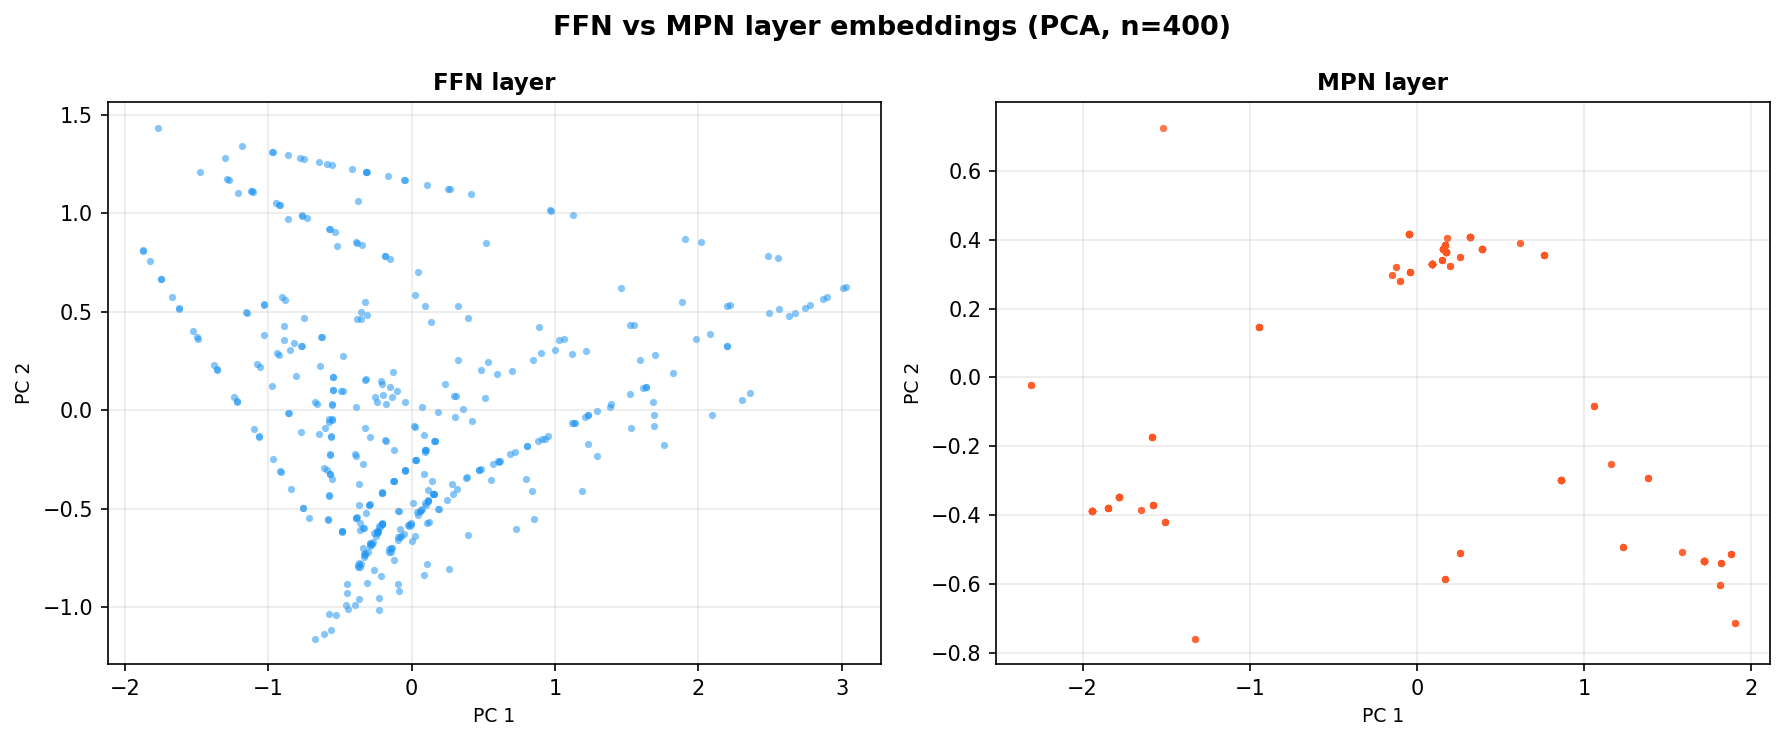
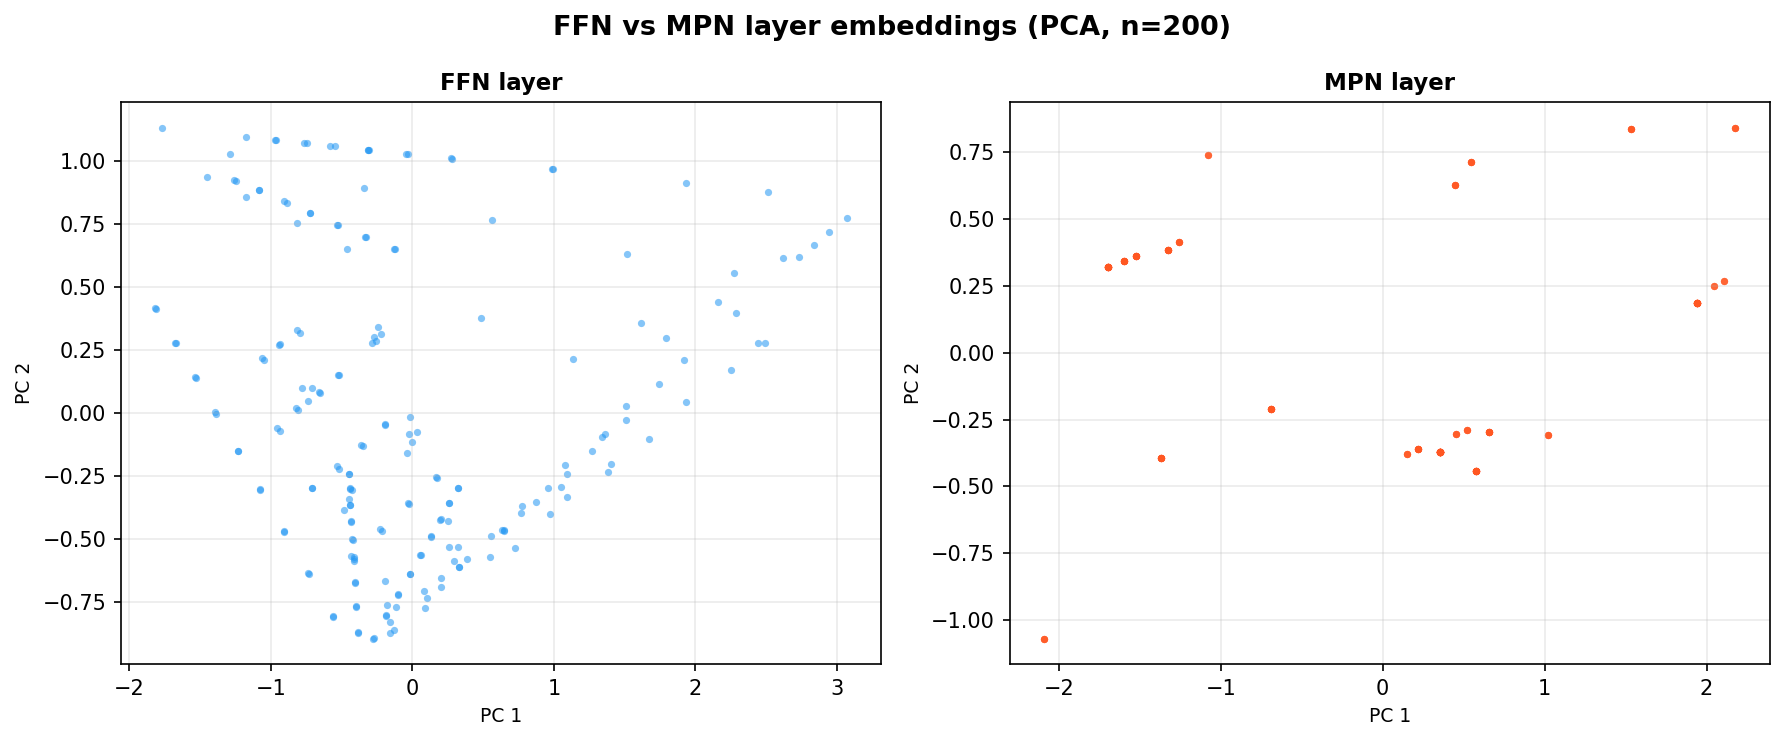
fixed anomaly detector issue

diff --git a/core/evolution/mixture_evolution.py b/core/evolution/mixture_evolution.py
@@ -139,17 +139,18 @@ class MixtureAwareMolecularEvolution(MolecularEvolution):
         print(f"✓ Base fuel: {len(self.base_smiles)} components")
     
     def _load_ad_checker(self):
-        """NEW: Load the trained One-Class SVM."""
+        """Load the trained One-Class SVM."""
+        ad_path = Path(__file__).resolve().parent.parent.parent / "models" / "mixture" / "mixture_ad_svm.pkl"
         try:
-            with open('models/mixture/mixture_ad_svm.pkl', 'rb') as f:
+            with open(ad_path, 'rb') as f:
                 ad_data = pickle.load(f)
                 self.svm = ad_data['svm']
                 self.scaler = ad_data['scaler']
-            
+
             print("✓ AD checker loaded")
-        
+
         except FileNotFoundError:
-            print("⚠ models/mixture/mixture_ad_svm.pkl not found - disabling AD filtering")
+            print(f"⚠ AD checker not found at {ad_path} - disabling AD filtering")
             self.use_ad_filtering = False
     
     def _extract_mixture_embedding(self, additive_smiles: str) -> np.ndarray:
@@ -341,47 +342,48 @@ class MixtureAwareMolecularEvolution(MolecularEvolution):
                 'total': 0,
                 'cn_none': 0,
                 'ysi_none': 0,
-                'tanimoto_fail': 0,
-                'cn_uncertainty_fail': 0,
-                'ysi_uncertainty_fail': 0,
-                'property_fail': 0,
                 'ad_filtered': 0,
-                'passed': 0
+                'passed': 0,
             }
 
         mc = self.config.mixture_config
-        
+
         filter_stats = {
             'total': len(smiles_list),
             'cn_none': 0,
             'ysi_none': 0,
-            'tanimoto_fail': 0,
-            'cn_uncertainty_fail': 0,
-            'ysi_uncertainty_fail': 0,
-            'property_fail': 0,
             'ad_filtered': 0,
-            'passed': 0
+            'passed': 0,
         }
         
         # STEP 1: Check AD for all molecules (returns numpy arrays)
         ad_scores_array, in_domain_array = self._check_ad_batch(smiles_list)
 
-        # DEBUG: Print AD stats
         n_in_domain = in_domain_array.sum()
         n_out_domain = (~in_domain_array).sum()
         print(f"  → AD Check: {n_in_domain} in-domain, {n_out_domain} out-of-domain")
         print(f"     Score range: [{ad_scores_array.min():.3f}, {ad_scores_array.max():.3f}]")
-        
-        # STEP 2: Get DCN predictions (batched)
-        mixture_dcns = self.mixture_predictor.predict_batch_mixtures(
-            additive_smiles_list=smiles_list,
+
+        # Short-circuit: nothing passes AD, skip expensive predictions
+        if n_in_domain == 0:
+            filter_stats['ad_filtered'] = len(smiles_list)
+            return [], filter_stats
+
+        # STEP 2: Get DCN predictions only for in-domain molecules
+        in_domain_indices = [i for i, ok in enumerate(in_domain_array) if ok]
+        in_domain_smiles = [smiles_list[i] for i in in_domain_indices]
+
+        dcn_for_in_domain = self.mixture_predictor.predict_batch_mixtures(
+            additive_smiles_list=in_domain_smiles,
             base_smiles=self.base_smiles,
             base_mole_fractions=self.base_fractions,
             additive_fraction=mc.additive_fraction,
             verbose=False
         )
 
-        # STEP 3: Predict pure-component YSI for all additives + base in one batch
+        mixture_dcns_in_domain = dict(zip(in_domain_indices, dcn_for_in_domain))
+
+        # STEP 3: Predict YSI only for in-domain additives + base components
         from rdkit import Chem
         from rdkit.Chem import Descriptors
 
@@ -392,21 +394,22 @@ class MixtureAwareMolecularEvolution(MolecularEvolution):
             paths = load_models()
             self.predictor.predictors['ysi'] = GenericPredictor(paths['ysi'], 'YSI')
 
-        # Featurize all additives + base components in one call
         base_ratio = 1.0 - mc.additive_fraction
-        all_unique_smiles = smiles_list + self.base_smiles
+        all_unique_smiles = in_domain_smiles + self.base_smiles
         props_all = self.predictor.predict_all_properties(all_unique_smiles)
-        ysi_all = props_all.get('ysi', [None] * len(all_unique_smiles))
+        ysi_for_in_domain = props_all.get('ysi', [None] * len(all_unique_smiles))
+        # Build a lookup by original index for in-domain additives
+        ysi_by_orig_idx = {orig_idx: ysi_for_in_domain[pos]
+                           for pos, orig_idx in enumerate(in_domain_indices)}
 
         # Pre-compute base component YSI and molecular weights (same for every additive)
-        base_ysi = ysi_all[len(smiles_list):]
+        base_ysi = ysi_for_in_domain[len(in_domain_smiles):]
         base_mws = []
         for smi in self.base_smiles:
             mol = Chem.MolFromSmiles(smi)
             base_mws.append(Descriptors.ExactMolWt(mol) if mol is not None else None)
 
         def _blend_ysi(additive_ysi, additive_mw):
-            """Apply mass-fraction blending law for one additive."""
             if additive_ysi is None or additive_mw is None:
                 return None
             if any(y is None or mw is None for y, mw in zip(base_ysi, base_mws)):
@@ -421,24 +424,19 @@ class MixtureAwareMolecularEvolution(MolecularEvolution):
             ysi_components = [additive_ysi] + list(base_ysi)
             return sum(y * mf for y, mf in zip(ysi_components, mass_fracs))
 
-        # STEP 4: Create molecules with DCN, AD, and YSI
+        # STEP 4: Create molecules — only iterate over in-domain candidates
+        filter_stats['ad_filtered'] = n_out_domain
         molecules = []
 
-        for i, smiles in enumerate(smiles_list):
-            dcn = mixture_dcns[i]
+        for i in in_domain_indices:
+            smiles = smiles_list[i]
+            dcn = mixture_dcns_in_domain.get(i)
 
-            # Filter: No DCN
             if dcn is None:
                 filter_stats['cn_none'] += 1
                 continue
 
-            # Filter: Outside AD
-            if not in_domain_array[i]:
-                filter_stats['ad_filtered'] += 1
-                continue
-
-            # Compute mixture YSI
-            additive_ysi = ysi_all[i]
+            additive_ysi = ysi_by_orig_idx.get(i)
             mol = Chem.MolFromSmiles(smiles)
             additive_mw = Descriptors.ExactMolWt(mol) if mol is not None else None
             mixture_ysi = _blend_ysi(additive_ysi, additive_mw)
@@ -541,3 +539,68 @@ class MixtureAwareMolecularEvolution(MolecularEvolution):
             
             table = wandb.Table(data=table_data, columns=columns)
             wandb.log({f"top_molecules_gen_{generation}": table})
+
+    def initialize_population(self, initial_smiles: List[str]) -> int:
+        """Initialize population with AD-based filtering."""
+        print("Predicting properties for initial population...")
+        molecules, filter_stats = self._create_molecules(initial_smiles)
+
+        if filter_stats['total'] > 0:
+            print(f"\n  Initial filtering: {filter_stats['total']} → {filter_stats['passed']} passed")
+            print(f"    AD filtered: {filter_stats['ad_filtered']} | "
+                  f"CN None: {filter_stats['cn_none']}")
+
+        return self.population.add_molecules(molecules)
+
+    def _generate_offspring(self, survivors: List[MixtureAwareMolecule]) -> Tuple[List[MixtureAwareMolecule], Dict]:
+        """Generate offspring using AD-based filtering (no Tanimoto / uncertainty filters)."""
+        import random
+        from rdkit import Chem
+
+        target_count = self.config.population_size - len(survivors)
+        max_attempts = target_count * self.config.max_offspring_attempts
+
+        all_children: List[str] = []
+        new_molecules: List[MixtureAwareMolecule] = []
+        cumulative_stats = {
+            'total': 0,
+            'cn_none': 0,
+            'ysi_none': 0,
+            'ad_filtered': 0,
+            'passed': 0,
+        }
+
+        print(f"  → Generating offspring (target: {target_count})...")
+
+        for _ in range(max_attempts):
+            if len(new_molecules) >= target_count:
+                break
+
+            parent = random.choice(survivors)
+            mol = Chem.MolFromSmiles(parent.smiles)
+            if mol is None:
+                continue
+
+            children = self._mutate_molecule(mol)
+            all_children.extend(children[:self.config.mutations_per_parent])
+
+            if len(all_children) >= self.config.batch_size:
+                batch_mols, batch_stats = self._create_molecules(all_children)
+                new_molecules.extend(batch_mols)
+                for key in cumulative_stats:
+                    cumulative_stats[key] += batch_stats.get(key, 0)
+                all_children = []
+
+        if all_children:
+            batch_mols, batch_stats = self._create_molecules(all_children)
+            new_molecules.extend(batch_mols)
+            for key in cumulative_stats:
+                cumulative_stats[key] += batch_stats.get(key, 0)
+
+        print(f"  ✓ Generated {len(new_molecules)} valid offspring")
+        print(f"    Filtering: {cumulative_stats['total']} → {cumulative_stats['passed']} | "
+              f"AD filtered: {cumulative_stats['ad_filtered']} | "
+              f"CN None: {cumulative_stats['cn_none']} "
+              f"(property constraints applied at end)")
+
+        return new_molecules, cumulative_stats

diff --git a/applications/mixture_aware_generator/results.py b/applications/mixture_aware_generator/results.py
@@ -1,6 +1,8 @@
 
 from pathlib import Path
 import pandas as pd
+import matplotlib.pyplot as plt
+import numpy as np
 from core.config import EvolutionConfig
 
 def save_results(final_df: pd.DataFrame, pareto_df: pd.DataFrame, unfiltered_df: pd.DataFrame, minimize_ysi: bool):
@@ -13,7 +15,51 @@ def save_results(final_df: pd.DataFrame, pareto_df: pd.DataFrame, unfiltered_df:
     if minimize_ysi and not pareto_df.empty:
         pareto_df.to_csv(results_dir / "pareto_front.csv", index=False)
 
+    if minimize_ysi and not pareto_df.empty:
+        plot_pareto_front(pareto_df, final_df, unfiltered_df)
+
     print("\n✓ Results saved to results/")
+
+
+def plot_pareto_front(
+    pareto_df: pd.DataFrame,
+    final_df: pd.DataFrame,
+    unfiltered_df: pd.DataFrame,
+):
+    """Save a Pareto front scatter plot to results/mixture_pareto_front.png."""
+    results_dir = Path("results")
+    results_dir.mkdir(exist_ok=True)
+
+    maximize_cn = "cn_error" not in pareto_df.columns or pareto_df["cn_error"].isna().all()
+    cn_col = "cn" if maximize_cn else "cn_error"
+    ysi_col = "mixture_ysi" if "mixture_ysi" in pareto_df.columns else "ysi"
+
+    fig, ax = plt.subplots(figsize=(8, 6))
+
+    # Background: full unfiltered population
+    bg = unfiltered_df.dropna(subset=[cn_col, ysi_col])
+    ax.scatter(bg[cn_col], bg[ysi_col], c="#cccccc", s=15, alpha=0.4, label="All candidates", zorder=1)
+
+    # Filtered (passed property constraints) in blue
+    filt = final_df.dropna(subset=[cn_col, ysi_col])
+    ax.scatter(filt[cn_col], filt[ysi_col], c="#6baed6", s=25, alpha=0.6, label="Filtered candidates", zorder=2)
+
+    # Pareto front in red, connected by a step line
+    pf = pareto_df.dropna(subset=[cn_col, ysi_col]).sort_values(cn_col, ascending=True)
+    ax.scatter(pf[cn_col], pf[ysi_col], c="#d73027", s=60, zorder=4, label="Pareto front")
+
+
+    ax.set_xlabel("Mixture DCN" if maximize_cn else "DCN Error", fontsize=12)
+    ax.set_ylabel("Mixture YSI", fontsize=12)
+    ax.set_title("Mixture Pareto Front: DCN vs YSI", fontsize=13)
+    ax.legend(fontsize=9)
+    ax.grid(True, linestyle="--", alpha=0.4)
+
+    fig.tight_layout()
+    out_path = results_dir / "mixture_pareto_front.png"
+    fig.savefig(out_path, dpi=150, bbox_inches="tight")
+    plt.close(fig)
+    print(f"  ✓ Pareto front plot saved to {out_path}")
 
 
 def display_results(final_df: pd.DataFrame, pareto_df: pd.DataFrame, unfiltered_df: pd.DataFrame, config: EvolutionConfig):
